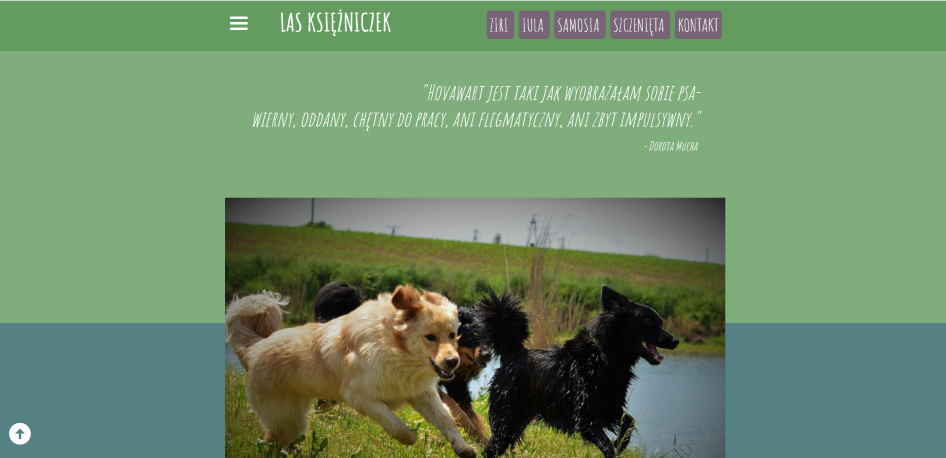
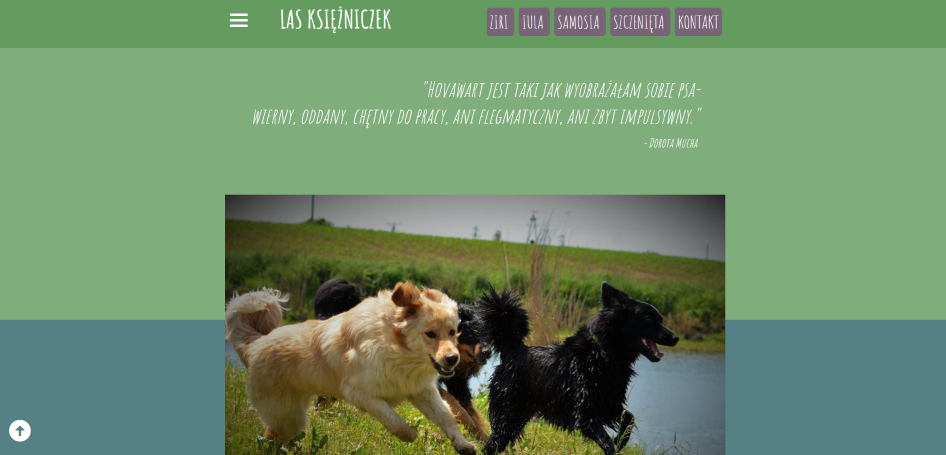
Created section with applications

diff --git a/css/main.css b/css/main.css
@@ -2,7 +2,7 @@
 /* --- */
 * { margin: 0; padding: 0; box-sizing: border-box; }
 
-body { width: 100vw; height: 100vh; font-family: "Amatic SC", cursive; }
+body { width: 100vw; height: 100vh; font-family: "Amatic SC", cursive; overflow: hidden; }
 
 a { text-decoration: none; color: inherit; }
 a:hover, a:active { color: inherit; }
@@ -25,18 +25,30 @@ a:hover, a:active { color: inherit; }
 .websites_sect .websites_title { font-size: 30px; width: 100%; text-align: center; margin: 20px; }
 .websites_sect .websites_list { width: 100%; display: flex; justify-content: space-around; align-items: center; letter-spacing: 2px; text-align: center; flex-wrap: wrap; color: #fff; }
 .websites_sect .websites_list div { width: 45%; font-size: 18px; }
-.websites_sect .websites_list div a { display: block; width: 100%; height: 300px; margin: 10px; background-position: center; background-size: cover; background-color: rgba(250, 250, 250, 0.2); background-blend-mode: overlay; }
+.websites_sect .websites_list div a { display: block; width: 100%; height: 300px; margin: 10px; background-position: center; background-size: cover; background-color: rgba(250, 250, 250, 0.2); background-blend-mode: overlay; border-radius: 2px; }
 .websites_sect .websites_list div a.gasa_link { background-image: url("../image/websites_ksiazka-gasa.png"); }
 .websites_sect .websites_list div a.hovawart_link { background-image: url("../image/websites_hovawart.png"); }
-.websites_sect .websites_list div a:hover { background-blend-mode: normal; transition: all 2s ease; }
+.websites_sect .websites_list div a:hover { background-blend-mode: normal; height: 302px; transition: all 1s ease; }
 .websites_sect .arrow_websites { width: 100%; height: 20px; display: flex; flex-direction: column; justify-content: flex-end; align-items: center; font-size: 50px; font-weight: 700; transform: rotate(90deg); }
 
-.underconstruction_sect { width: 70vw; height: 35vh; text-align: center; }
-.underconstruction_sect .undercostruction_title { font-size: 92px; letter-spacing: 4px; padding: 8px; margin-top: 2px; margin-bottom: 12px; }
-.underconstruction_sect .contact_ad { font-style: normal; font-size: 64px; padding: 6px; margin-top: 8px; margin-bottom: 8px; word-wrap: break-word; }
-.underconstruction_sect .contact_ad:hover .hover_mail { color: #d9ac26; }
-.underconstruction_sect .icons_sect { font-size: 38px; padding: 4px; margin-top: 18px; margin-bottom: 2px; }
-.underconstruction_sect .icons_sect a { padding-left: 5px; padding-right: 5px; }
-.underconstruction_sect .icons_sect a:hover { color: #d9ac26; }
+.app_sect { width: 75vw; height: 100%; display: flex; justify-content: space-between; align-items: center; position: absolute; right: calc(-75vw + 20px); top: 0; }
+.app_sect:hover { right: 0; background-color: #000; color: #d9ac26; transition: all 2s ease; }
+.app_sect .app_title { font-size: 30px; text-align: center; margin: 20px; transform: rotate(90deg); }
+.app_sect .app_list { display: flex; justify-content: space-around; align-items: center; letter-spacing: 2px; text-align: center; flex-wrap: wrap; color: #fff; }
+.app_sect .app_list div { width: 80%; font-size: 18px; }
+.app_sect .app_list div a { display: block; width: 100%; height: 250px; margin: 10px; background-position: center; background-size: cover; background-color: rgba(250, 250, 250, 0.2); background-blend-mode: overlay; border-radius: 2px; }
+.app_sect .app_list div a.dice_link { background-image: url("../image/app_gra-kosci.png"); }
+.app_sect .app_list div a.bitcoin_link { background-image: url("../image/app_bitcoin.png"); background-position: top; }
+.app_sect .app_list div a:hover { background-blend-mode: normal; height: 252px; transition: all 1s ease; }
+.app_sect .arrow_app { width: 20px; height: 100%; display: flex; justify-content: flex-start; align-items: center; font-size: 50px; font-weight: 700; }
+
+.front_sect { width: 70vw; height: 35vh; text-align: center; }
+.front_sect .front_title { font-size: 92px; letter-spacing: 4px; padding: 4px; margin: 2px; }
+.front_sect .front_2nd-title { color: #d9ac26; }
+.front_sect .contact_ad { font-style: normal; font-size: 64px; padding: 6px; margin-top: 8px; margin-bottom: 8px; word-wrap: break-word; }
+.front_sect .contact_ad:hover .hover_mail { color: #d9ac26; }
+.front_sect .icons_sect { font-size: 38px; padding: 4px; margin-top: 18px; margin-bottom: 2px; }
+.front_sect .icons_sect a { padding-left: 5px; padding-right: 5px; }
+.front_sect .icons_sect a:hover { color: #d9ac26; }
 
 /*# sourceMappingURL=main.css.map */

diff --git a/index.html b/index.html
@@ -9,61 +9,45 @@
 </head>
 
 <body>
-
     <main class="page_container">
 
         <section class="courses_sect">
-
             <h2 class="courses_title">UKOŃCZONE KURSY</h2>
-
             <dl class="courses_list">
                 <dt>REACT OD PODSTAW</dt>
                 <dd>Websamuraj - szkoła programowania i tworzenia stron - 15 godz</dd>
-
                 <dt>"IT’S A KIND OF MAGIC - POZNAJ SUPERMOCE CSS-A"</dt>
                 <dd>The Awwwesomes - 8 godz.</dd>
-
                 <dt>JAVA SCRIPT - CARROTS.JS</dt>
                 <dd>Geek Girls Carrots Bydgoszcz - 16 godz. + mentoring 5 miesięcy</dd>
-
                 <dt>PROGRAMOWANIE SERWISÓW (HTML/CSS/JS/PHP)</dt>
                 <dd>„Siła kwalifikacji!” (INSPIRES Sp. z o.o.) - 120 godz.</dd>
-
                 <dt>JAVA & ANDROID</dt>
                 <dd>software development academy - 213 godz.</dd>
-
                 <dt>SQL - KURS PODSTAWOWY</dt>
                 <dd>UAM w Poznaniu (Uniwersytet Otwarty) - 16 godz</dd>
             </dl>
-            
             <div class="arrow_courses">&lt;</div>
-
         </section>
 
         <section class="websites_sect">
-            
             <h2 class="websites_title">REALIZACJE: STRONY</h2>
-
             <div class="websites_list">
                 <div>landing page dla książki o masażu GaSa
                     <a href="http://ksiazka.martamucha.pl/" target="_blank" class="gasa_link"></a>
                 </div>
-
                 <div>strona internetowa dla hodowli psów rasy hovawart
                     <a href="http://hovawart.pl/" target="_blank" class="hovawart_link"></a>
                 </div>
             </div>
-            
             <div class="arrow_websites">&lt;</div>
-            
         </section>
 
-        <section class="underconstruction_sect">
-
-            <h1 class="undercostruction_title">portfolio w budowie</h1>
-
+        <section class="front_sect">
+            <h1 class="front_title">portfolio w budowie</h1>
+<!--            <h1 class="front_title">Marta Mucha-Balcerek</h1>-->
+<!--            <h2 class="front_2nd-title">Junior Front-End Developer</h2>-->
             <address class="contact_ad">m.muchabalcerek<span class="hover_mail">@</span>gmail.com</address>
-
             <section class="icons_sect">
                 <a href="https://www.linkedin.com/in/marta-mucha-balcerek-99012113b/" target="_blank"><i class="icon-linkedin-rect"></i></a>
                 <a href="https://github.com/MartaKMB" target="_blank"><i class="icon-github"></i></a>
@@ -71,11 +55,19 @@
                 <a href="pdf/mucha-balcerek_cv.pdf" target="_blank"><i class="icon-file-pdf"></i></a>
             </section>
         </section>
-
-        <section class="app_sect"></section>
-
-        <section class="contact_sect"></section>
-
+        
+        <section class="app_sect">
+           <div class="arrow_app">&gt;</div>
+            <div class="app_list">
+                <div>gra w kości - JavaScript
+                    <a href="https://github.com/MartaKMB/diceGame" target="_blank" class="dice_link"></a>
+                </div>
+                <div>aplikacja wykorzystująca Public API BitBay 2.0 - JavaScript React
+                    <a href="https://github.com/MartaKMB/BitcoinsApp" target="_blank" class="bitcoin_link"></a>
+                </div>
+            </div>
+            <h2 class="app_title">REALIZACJE: APLIKACJE</h2>
+        </section>
     </main>
 
 </body>

diff --git a/sass/main.scss b/sass/main.scss
@@ -14,6 +14,7 @@ body {
     width: 100vw;
     height: 100vh;
     font-family: $underconstruction_font;
+    overflow: hidden;
 }
 
 a {
@@ -147,6 +148,7 @@ a {
                 background-size: cover;
                 background-color: rgba(250, 250, 250, .2);
                 background-blend-mode: overlay;
+                border-radius: 2px;
 
                 &.gasa_link {
                     background-image: url('../image/websites_ksiazka-gasa.png');
@@ -158,7 +160,8 @@ a {
                 
                 &:hover {
                     background-blend-mode: normal;
-                    transition: all 2s ease;
+                    height: 302px;
+                    transition: all 1s ease;
                 }
             }
         }
@@ -177,19 +180,97 @@ a {
     }
 }
 
-.underconstruction_sect {
+.app_sect {
+    width: 75vw;
+    height: 100%;
+    display: flex;
+    justify-content: space-between;
+    align-items: center;
+    position: absolute;
+    right: calc(-75vw + 20px);
+    top: 0;
+
+    &:hover {
+        right: 0;
+        background-color: #000;
+        color: $hover_color;
+        transition: all 2s ease;
+    }
+
+    .app_title {
+        font-size: 30px;
+        text-align: center;
+        margin: 20px;
+        transform: rotate(90deg);
+    }
+
+    .app_list {
+        display: flex;
+        justify-content: space-around;
+        align-items: center;
+        letter-spacing: 2px;
+        text-align: center;
+        flex-wrap: wrap;
+        color: #fff;
+
+        div {
+            width: 80%;
+            font-size: 18px;
+
+            a {
+                display: block;
+                width: 100%;
+                height: 250px;
+                margin: 10px;
+                background-position: center;
+                background-size: cover;
+                background-color: rgba(250, 250, 250, .2);
+                background-blend-mode: overlay;
+                border-radius: 2px;
+
+                &.dice_link {
+                    background-image: url('../image/app_gra-kosci.png');
+                }
+
+                &.bitcoin_link {
+                    background-image: url('../image/app_bitcoin.png');
+                    background-position: top;
+                }
+                
+                &:hover {
+                    background-blend-mode: normal;
+                    height: 252px;
+                    transition: all 1s ease;
+                }
+            }
+        }
+    }
+
+    .arrow_app {
+        width: 20px;
+        height: 100%;
+        display: flex;
+        justify-content: flex-start;
+        align-items: center;
+        font-size: 50px;
+        font-weight: 700;
+    }
+}
+
+.front_sect {
     width: 70vw;
     height: 35vh;
     text-align: center;
 
-    .undercostruction_title {
+    .front_title {
         font-size: 92px;
         letter-spacing: 4px;
-        padding: 8px;
-        margin: {
-            top: 2px;
-            bottom: 12px;
-        }
+        padding: 4px;
+        margin: 2px;
+    }
+    
+    .front_2nd-title {
+        color: $hover_color;
     }
 
     .contact_ad {
